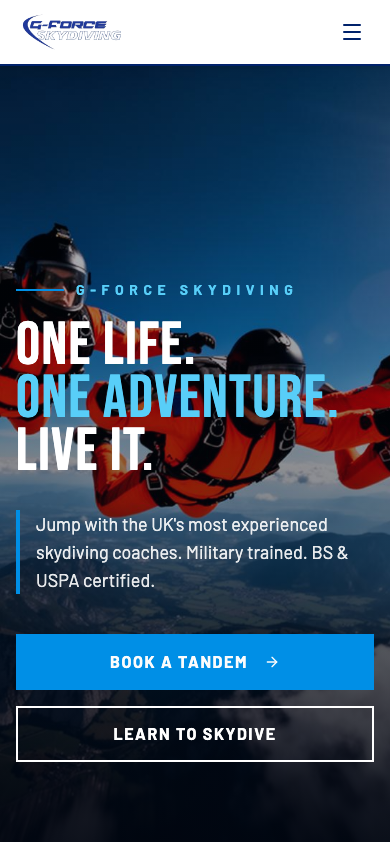
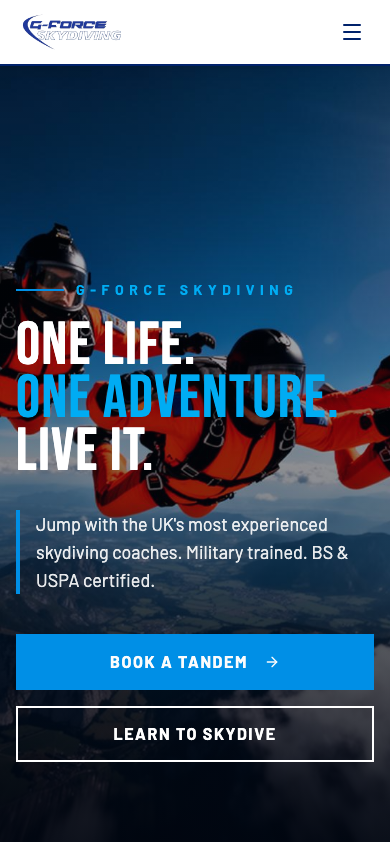
fix(design): drop the invented hero light-blue for the brand sky tone
text-hero-accent (oklch 0.8 0.12 225) replaced everywhere with the
pre-existing --sky-bright brand token (and its hex equivalent in the
voucher PDF); the utility is deleted so it cannot come back.

diff --git a/resources/css/app.css b/resources/css/app.css
@@ -140,9 +140,6 @@
     .bg-hero-overlay {
         background-image: linear-gradient(180deg, oklch(0.22 0.12 258 / 0.7), oklch(0.16 0.1 255 / 0.88));
     }
-    .text-hero-accent {
-        color: oklch(0.8 0.12 225);
-    }
     .text-fire-gradient {
         background-image: var(--gradient-fire);
         -webkit-background-clip: text;

diff --git a/resources/views/pages/home.blade.php b/resources/views/pages/home.blade.php
@@ -18,12 +18,12 @@
         />
         <div class="absolute inset-0 bg-photo-scrim"></div>
         <div class="relative z-10 mx-auto w-full max-w-7xl px-4 pb-20 pt-40 text-white lg:px-8 lg:pb-28">
-            <p class="mb-5 flex items-center gap-3 text-sm font-bold uppercase tracking-[0.4em] text-hero-accent">
+            <p class="mb-5 flex items-center gap-3 text-sm font-bold uppercase tracking-[0.4em] text-sky-bright">
                 <span class="inline-block h-0.5 w-12 bg-primary"></span>{{ $home->hero_eyebrow }}
             </p>
             <h1 class="font-display text-6xl uppercase leading-[0.88] tracking-wide sm:text-8xl lg:text-[10.5rem]">
                 {{ $home->hero_title_1 }}<br />
-                <span class="text-hero-accent">{{ $home->hero_title_highlight }}</span><br />
+                <span class="text-sky-bright">{{ $home->hero_title_highlight }}</span><br />
                 {{ $home->hero_title_2 }}
             </h1>
             <p class="mt-8 max-w-xl border-l-4 border-primary pl-4 text-lg text-white/90 md:text-xl">
@@ -54,7 +54,7 @@
                     <img src="{{ $s->image_url }}" alt="{{ $s->name }}" class="absolute inset-0 -z-10 h-full w-full object-cover transition-transform duration-700 group-hover:scale-105" loading="lazy" width="1280" height="896" />
                     <div class="absolute inset-0 -z-10 bg-photo-scrim"></div>
                     <div class="p-7 text-white">
-                        <p class="font-display text-xl text-hero-accent">{{ $s->summary_price_label }}</p>
+                        <p class="font-display text-xl text-sky-bright">{{ $s->summary_price_label }}</p>
                         <h3 class="mt-1 font-display text-4xl uppercase leading-none tracking-wide lg:text-5xl">{{ $s->name }}</h3>
                         <p class="mt-3 max-w-xs text-sm text-white/85">{{ $s->summary }}</p>
                         <span class="mt-5 inline-flex items-center gap-2 border-b-2 border-primary pb-1 text-sm font-bold uppercase tracking-widest">

diff --git a/resources/views/pdf/voucher.blade.php b/resources/views/pdf/voucher.blade.php
@@ -10,9 +10,9 @@
     @page { margin: 0; }
     body { margin: 0; font-family: Helvetica, sans-serif; color: #0c1330; }
     .band { background: #0a0f23; color: #ffffff; padding: 22px 40px 16px 40px; border-bottom: 5px solid #2f8de4; }
-    .eyebrow { font-size: 11px; letter-spacing: 5px; text-transform: uppercase; color: #7cc4f5; font-weight: bold; margin: 0 0 10px 0; }
+    .eyebrow { font-size: 11px; letter-spacing: 5px; text-transform: uppercase; color: #0ea5e9; font-weight: bold; margin: 0 0 10px 0; }
     h1 { font-size: 34px; line-height: 0.95; text-transform: uppercase; letter-spacing: 1px; margin: 0; font-weight: bold; }
-    h1 .accent { color: #7cc4f5; }
+    h1 .accent { color: #0ea5e9; }
     .body { padding: 18px 40px 0 40px; }
     table { width: 100%; border-collapse: collapse; }
     td { vertical-align: top; }

diff --git a/resources/views/components/site/page-hero.blade.php b/resources/views/components/site/page-hero.blade.php
@@ -14,7 +14,7 @@
     @endif
     <div class="relative mx-auto max-w-6xl px-4 lg:px-8">
         <h1 class="font-display text-6xl uppercase leading-[0.92] tracking-wide md:text-8xl lg:text-9xl">
-            @foreach ($words as $i => $word)<span class="{{ $i === $lastIndex && $lastIndex > 0 ? 'text-hero-accent' : '' }}">{{ $word }} </span>@endforeach
+            @foreach ($words as $i => $word)<span class="{{ $i === $lastIndex && $lastIndex > 0 ? 'text-sky-bright' : '' }}">{{ $word }} </span>@endforeach
         </h1>
         @if ($subtitle)
             <p class="mt-6 max-w-2xl border-l-4 border-primary pl-4 text-lg text-white/90">{{ $subtitle }}</p>

diff --git a/resources/views/livewire/buy-voucher.blade.php b/resources/views/livewire/buy-voucher.blade.php
@@ -13,7 +13,7 @@
                     <p class="font-display text-3xl uppercase">{{ $product->name }}</p>
                     <p class="mt-1 text-sm opacity-90">Valid 12 months · transferable · redeemable online</p>
                 </div>
-                <p class="font-display text-4xl text-hero-accent">{{ $product->formatted_price }}</p>
+                <p class="font-display text-4xl text-sky-bright">{{ $product->formatted_price }}</p>
             </div>
 
             <div class="mt-6 grid gap-4 sm:grid-cols-2">
